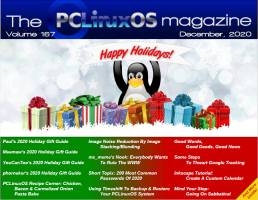
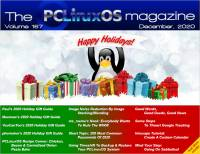
Actualizo revistas (2020-12-19)

diff --git a/index.html b/index.html
@@ -36,6 +36,17 @@
 
     <div class="miniaturas">
       <div>
+        <p><a href="revistas-titulos/revistas-the-magpi.html">The MagPi</a></p>
+        <p>
+          <a href="https://www.mclibre.org/descargar/docs/revistas/magpi/the-magpi-101-en-202101.pdf">
+            <img alt="Revista The MagPi nº 101 - 2021-01" src="img/revistas/the-magpi/the-magpi-101-en-202101.jpg" width="151" height="200">
+          </a>
+        </p>
+        <p>Número 101 - 2021 enero</p>
+        <p><a href="https://www.mclibre.org/descargar/docs/revistas/magpi/the-magpi-101-en-202101.pdf">Descarga</a> (PDF 32.0 MB, inglés)</p>
+      </div>
+
+      <div>
         <p><a href="revistas-titulos/revistas-hackspace.html">HackSpace</a></p>
         <p>
           <a href="https://www.mclibre.org/descargar/docs/revistas/hackspace/hackspace-38-en-202101.pdf">
@@ -95,22 +106,11 @@
         <p><a href="revistas-titulos/revistas-pclinuxos.html">The PCLinuxOS Magazine</a></p>
         <p>
           <a href="https://www.mclibre.org/descargar/docs/revistas/pclinuxos/pclinuxos-167-en-202012.pdf">
-            <img alt="Revista The PCLinuxOS Magazine nº 167 - 2020-12" src="img/revistas/pclinuxos/pclinuxos-167-en-202012.jpg" width="258" height="200">
+            <img alt="Revista The PCLinuxOS Magazine nº 167 - 2020-12" src="img/revistas/pclinuxos/pclinuxos-167-en-202012.jpg" width="200" height="154">
           </a>
         </p>
         <p>Número 167 - 2020 diciembre</p>
         <p><a href="https://www.mclibre.org/descargar/docs/revistas/pclinuxos/pclinuxos-167-en-202012.pdf">Descarga</a> (PDF 16.3 MB, inglés)</p>
-      </div>
-
-      <div>
-        <p><a href="revistas-titulos/revistas-the-magpi.html">The MagPi</a></p>
-        <p>
-          <a href="https://www.mclibre.org/descargar/docs/revistas/magpi/the-magpi-100-en-202012.pdf">
-            <img alt="Revista The MagPi nº 100 - 2020-12" src="img/revistas/the-magpi/the-magpi-100-en-202012.jpg" width="152" height="200">
-          </a>
-        </p>
-        <p>Número 100 - 2020 diciembre</p>
-        <p><a href="https://www.mclibre.org/descargar/docs/revistas/magpi/the-magpi-100-en-202012.pdf">Descarga</a> (PDF 33.2 MB, inglés)</p>
       </div>
 
       <div>
@@ -145,18 +145,6 @@
         </p>
         <p>Número 67 - 2020 noviembre</p>
         <p><a href="https://www.mclibre.org/descargar/docs/revistas/insecure/insecure-67-en-202011.pdf">Descarga</a> (PDF 16.5 MB, inglés)</p>
-      </div>
-
-      <div>
-        <p><a href="revistas-titulos/revistas-the-magpi-books.html">The MagPi Books</a></p>
-        <p>
-          <a href="https://www.mclibre.org/descargar/docs/revistas/magpi-books/raspberry-pi-beginners-book-4-en-202011.pdf">
-            <img alt="Revista Raspberry Pi Beginner’s Guide 4º ed. nº 4 - 2020-11" src="img/revistas/the-magpi-books/raspberry-pi-beginners-book-4-en-202011.jpg" width="133" height="200">
-          </a>
-        </p>
-        <p>Raspberry Pi Beginner’s Guide 4º ed.</p>
-        <p>Número 4 - 2020 noviembre</p>
-        <p><a href="https://www.mclibre.org/descargar/docs/revistas/magpi-books/raspberry-pi-beginners-book-4-en-202011.pdf">Descarga</a> (PDF 34.3 MB, inglés)</p>
       </div>
     </div>
   </section>
@@ -316,12 +304,12 @@
       <div>
         <p>
           <a href="revistas-titulos/revistas-ding.html">
-            <img alt="Revista DING nº 2 - 2018-12" src="img/revistas/ding/ding-2-en-201812.jpg" width="156" height="200">
+            <img alt="Revista DING nº 3 - 2020-12" src="img/revistas/ding/ding-3-en-202012.jpg" width="200" height="141">
           </a>
         </p>
         <p><a href="revistas-titulos/revistas-ding.html">DING</a></p>
-        <p>2017 - 2018</p>
-        <p>2 ejemplares</p>
+        <p>2017 - 2020</p>
+        <p>3 ejemplares</p>
       </div>
 
       <div>
@@ -492,12 +480,12 @@
       <div>
         <p>
           <a href="revistas-titulos/revistas-the-magpi.html">
-            <img alt="Revista The MagPi nº 100 - 2020-12" src="img/revistas/the-magpi/the-magpi-100-en-202012.jpg" width="152" height="200">
+            <img alt="Revista The MagPi nº 101 - 2021-01" src="img/revistas/the-magpi/the-magpi-101-en-202101.jpg" width="151" height="200">
           </a>
         </p>
         <p><a href="revistas-titulos/revistas-the-magpi.html">The MagPi</a></p>
-        <p>2012 - 2020</p>
-        <p>100 ejemplares</p>
+        <p>2012 - 2021</p>
+        <p>101 ejemplares</p>
       </div>
 
       <div>
@@ -514,7 +502,7 @@
       <div>
         <p>
           <a href="revistas-titulos/revistas-pclinuxos.html">
-            <img alt="Revista The PCLinuxOS Magazine nº 167 - 2020-12" src="img/revistas/pclinuxos/pclinuxos-167-en-202012.jpg" width="258" height="200">
+            <img alt="Revista The PCLinuxOS Magazine nº 167 - 2020-12" src="img/revistas/pclinuxos/pclinuxos-167-en-202012.jpg" width="200" height="154">
           </a>
         </p>
         <p><a href="revistas-titulos/revistas-pclinuxos.html">The PCLinuxOS Magazine</a></p>
@@ -1076,7 +1064,7 @@
 
   <address id="ultmod">
     Autor: Bartolomé Sintes Marco<br>
-    Última modificación de esta página: 12 de diciembre de 2020
+    Última modificación de esta página: 19 de diciembre de 2020
   </address>
 </body>
 </html>

diff --git a/revistas-years/revistas-2020.html b/revistas-years/revistas-2020.html
@@ -23,6 +23,7 @@
       <ul>
         <li><a href="#insecure">(In)secure Magazine</a></li>
         <li><a href="#bits">Bits de Ciencia</a></li>
+        <li><a href="#ding">DING</a></li>
         <li><a href="#edutec">Edutec</a></li>
         <li><a href="#fullcircle">Full Circle</a></li>
         <li><a href="#hackspace">HackSpace</a></li>
@@ -93,6 +94,21 @@
         <p><img alt="Revista Bits de Ciencia nº 20 - 2020-S2" src="../img/revistas/bits-de-ciencia/bits-de-ciencia-20-es-2020s2.jpg" width="154" height="200"></p>
         <p>Número 20 - 2020 Segundo semestre</p>
         <p><a href="https://www.mclibre.org/descargar/docs/revistas/bits-de-ciencia/bits-de-ciencia-20-es-2020s2.pdf">Descarga</a> (PDF 12.6 MB, español)</p>
+      </div>
+
+    </div>
+  </section>
+
+  <section id="ding">
+    <h2>DING</h2>
+
+    <p>Página web: <a href="https://dingdingding.org/">Revista DING</a></p>
+
+    <div class="miniaturas">
+      <div>
+        <p><img alt="Revista DING nº 3 - 2020-12" src="../img/revistas/ding/ding-3-en-202012.jpg" width="200" height="141"></p>
+        <p>Número 3 - 2020 diciembre</p>
+        <p><a href="https://www.mclibre.org/descargar/docs/revistas/ding/ding-3-en-202012.pdf">Descarga</a> (PDF 8.2 MB, inglés)</p>
       </div>
 
     </div>
@@ -712,7 +728,7 @@
       </div>
 
       <div>
-        <p><img alt="Revista The PCLinuxOS Magazine nº 167 - 2020-12" src="../img/revistas/pclinuxos/pclinuxos-167-en-202012.jpg" width="258" height="200"></p>
+        <p><img alt="Revista The PCLinuxOS Magazine nº 167 - 2020-12" src="../img/revistas/pclinuxos/pclinuxos-167-en-202012.jpg" width="200" height="154"></p>
         <p>Número 167 - 2020 diciembre</p>
         <p><a href="https://www.mclibre.org/descargar/docs/revistas/pclinuxos/pclinuxos-167-en-202012.pdf">Descarga</a> (PDF 16.3 MB, inglés)</p>
       </div>
@@ -865,7 +881,7 @@
 
   <address id="ultmod">
     Autor: Bartolomé Sintes Marco<br>
-    Última modificación de esta página: 12 de diciembre de 2020
+    Última modificación de esta página: 19 de diciembre de 2020
   </address>
 </body>
 </html>

diff --git a/revistas-titulos/revistas-the-magpi.html b/revistas-titulos/revistas-the-magpi.html
@@ -21,6 +21,7 @@
 
     <div class="toc">
       <ul>
+        <li><a href="#y2021">2021</a></li>
         <li><a href="#y2020">2020</a></li>
         <li><a href="#y2019">2019</a></li>
         <li><a href="#y2018">2018</a></li>
@@ -34,11 +35,24 @@
     </div>
   </nav>
 
-  <p>Esta página contiene enlaces a los números publicados de la revista <strong>The MagPi</strong> en <a href="#y2020">2020</a> - <a href="#y2019">2019</a> - <a href="#y2018">2018</a> - <a href="#y2017">2017</a> - <a href="#y2016">2016</a> - <a href="#y2015">2015</a> - <a href="#y2014">2014</a> - <a href="#y2013">2013</a> - <a href="#y2012">2012</a>.</p>
+  <p>Esta página contiene enlaces a los números publicados de la revista <strong>The MagPi</strong> en <a href="#y2021">2021</a> - <a href="#y2020">2020</a> - <a href="#y2019">2019</a> - <a href="#y2018">2018</a> - <a href="#y2017">2017</a> - <a href="#y2016">2016</a> - <a href="#y2015">2015</a> - <a href="#y2014">2014</a> - <a href="#y2013">2013</a> - <a href="#y2012">2012</a>.</p>
 
     <h2>The MagPi - The official Raspberry Pi magazine</h2>
 
   <p>Página web: <a href="https://magpi.raspberrypi.org/">Revista The MagPi</a></p>
+
+  <section id="y2021">
+    <h2>2021</h2>
+
+    <div class="miniaturas">
+      <div>
+        <p><img alt="Revista The MagPi nº 101 - 2021-01" src="../img/revistas/the-magpi/the-magpi-101-en-202101.jpg" width="151" height="200"></p>
+        <p>Número 101 - 2021 enero</p>
+        <p><a href="https://www.mclibre.org/descargar/docs/revistas/magpi/the-magpi-101-en-202101.pdf">Descarga</a> (PDF 32.0 MB, inglés)</p>
+      </div>
+
+    </div>
+  </section>
 
   <section id="y2020">
     <h2>2020</h2>
@@ -705,7 +719,7 @@
 
   <address id="ultmod">
     Autor: Bartolomé Sintes Marco<br>
-    Última modificación de esta página: 28 de noviembre de 2020
+    Última modificación de esta página: 19 de diciembre de 2020
   </address>
 </body>
 </html>

diff --git a/revistas-titulos/revistas-ding.html b/revistas-titulos/revistas-ding.html
@@ -21,17 +21,31 @@
 
     <div class="toc">
       <ul>
+        <li><a href="#y2020">2020</a></li>
         <li><a href="#y2018">2018</a></li>
         <li><a href="#y2017">2017</a></li>
       </ul>
     </div>
   </nav>
 
-  <p>Esta página contiene enlaces a los números publicados de la revista <strong>DING</strong> en <a href="#y2018">2018</a> - <a href="#y2017">2017</a>.</p>
+  <p>Esta página contiene enlaces a los números publicados de la revista <strong>DING</strong> en <a href="#y2020">2020</a> - <a href="#y2018">2018</a> - <a href="#y2017">2017</a>.</p>
 
     <h2>DING - A magazine about the Internet and Things</h2>
 
   <p>Página web: <a href="https://dingdingding.org/">Revista DING</a></p>
+
+  <section id="y2020">
+    <h2>2020</h2>
+
+    <div class="miniaturas">
+      <div>
+        <p><img alt="Revista DING nº 3 - 2020-12" src="../img/revistas/ding/ding-3-en-202012.jpg" width="200" height="141"></p>
+        <p>Número 3 - 2020 diciembre</p>
+        <p><a href="https://www.mclibre.org/descargar/docs/revistas/ding/ding-3-en-202012.pdf">Descarga</a> (PDF 8.2 MB, inglés)</p>
+      </div>
+
+    </div>
+  </section>
 
   <section id="y2018">
     <h2>2018</h2>
@@ -61,7 +75,7 @@
 
   <address id="ultmod">
     Autor: Bartolomé Sintes Marco<br>
-    Última modificación de esta página: 15 de julio de 2019
+    Última modificación de esta página: 19 de diciembre de 2020
   </address>
 </body>
 </html>

diff --git a/revistas-years/revistas-2021.html b/revistas-years/revistas-2021.html
@@ -22,6 +22,7 @@
     <div class="toc">
       <ul>
         <li><a href="#hackspace">HackSpace</a></li>
+        <li><a href="#magpi">The MagPi</a></li>
       </ul>
     </div>
   </nav>
@@ -43,9 +44,24 @@
     </div>
   </section>
 
+  <section id="magpi">
+    <h2>The MagPi</h2>
+
+    <p>Página web: <a href="https://magpi.raspberrypi.org/">Revista The MagPi</a></p>
+
+    <div class="miniaturas">
+      <div>
+        <p><img alt="Revista The MagPi nº 101 - 2021-01" src="../img/revistas/the-magpi/the-magpi-101-en-202101.jpg" width="151" height="200"></p>
+        <p>Número 101 - 2021 enero</p>
+        <p><a href="https://www.mclibre.org/descargar/docs/revistas/magpi/the-magpi-101-en-202101.pdf">Descarga</a> (PDF 32.0 MB, inglés)</p>
+      </div>
+
+    </div>
+  </section>
+
   <address id="ultmod">
     Autor: Bartolomé Sintes Marco<br>
-    Última modificación de esta página: 12 de diciembre de 2020
+    Última modificación de esta página: 19 de diciembre de 2020
   </address>
 </body>
 </html>

diff --git a/revistas-titulos/revistas-pclinuxos.html b/revistas-titulos/revistas-pclinuxos.html
@@ -51,7 +51,7 @@
 
     <div class="miniaturas">
       <div>
-        <p><img alt="Revista The PCLinuxOS Magazine nº 167 - 2020-12" src="../img/revistas/pclinuxos/pclinuxos-167-en-202012.jpg" width="258" height="200"></p>
+        <p><img alt="Revista The PCLinuxOS Magazine nº 167 - 2020-12" src="../img/revistas/pclinuxos/pclinuxos-167-en-202012.jpg" width="200" height="154"></p>
         <p>Número 167 - 2020 diciembre</p>
         <p><a href="https://www.mclibre.org/descargar/docs/revistas/pclinuxos/pclinuxos-167-en-202012.pdf">Descarga</a> (PDF 16.3 MB, inglés)</p>
       </div>
